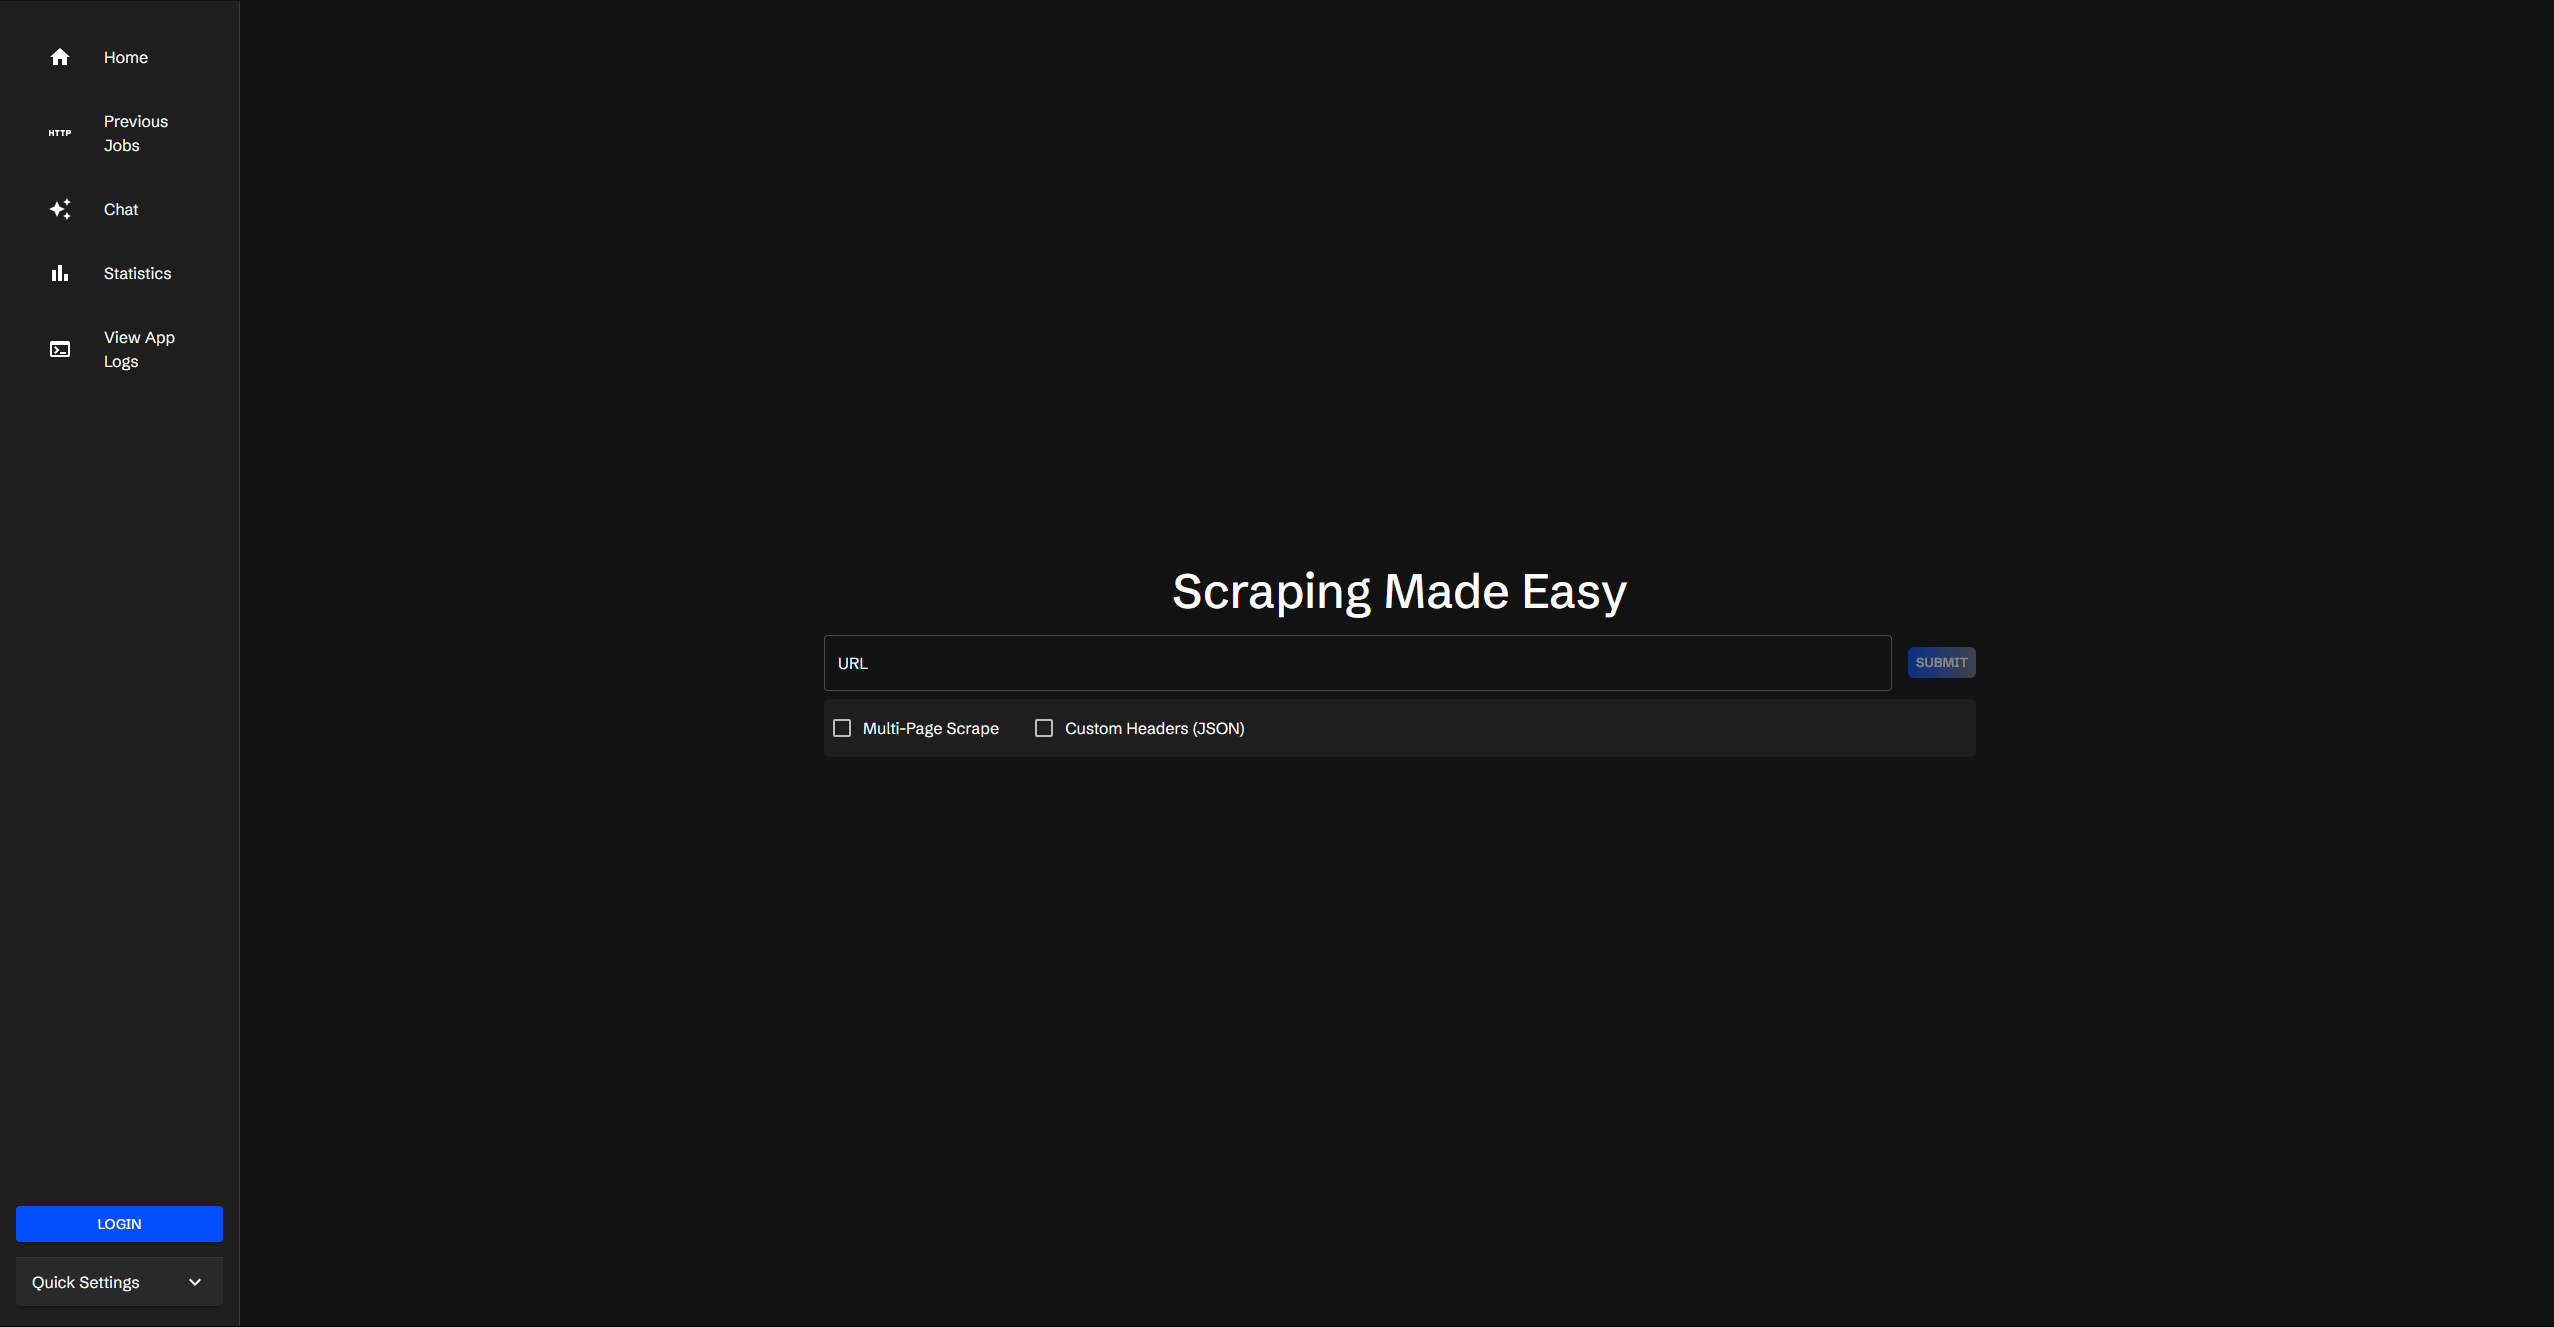
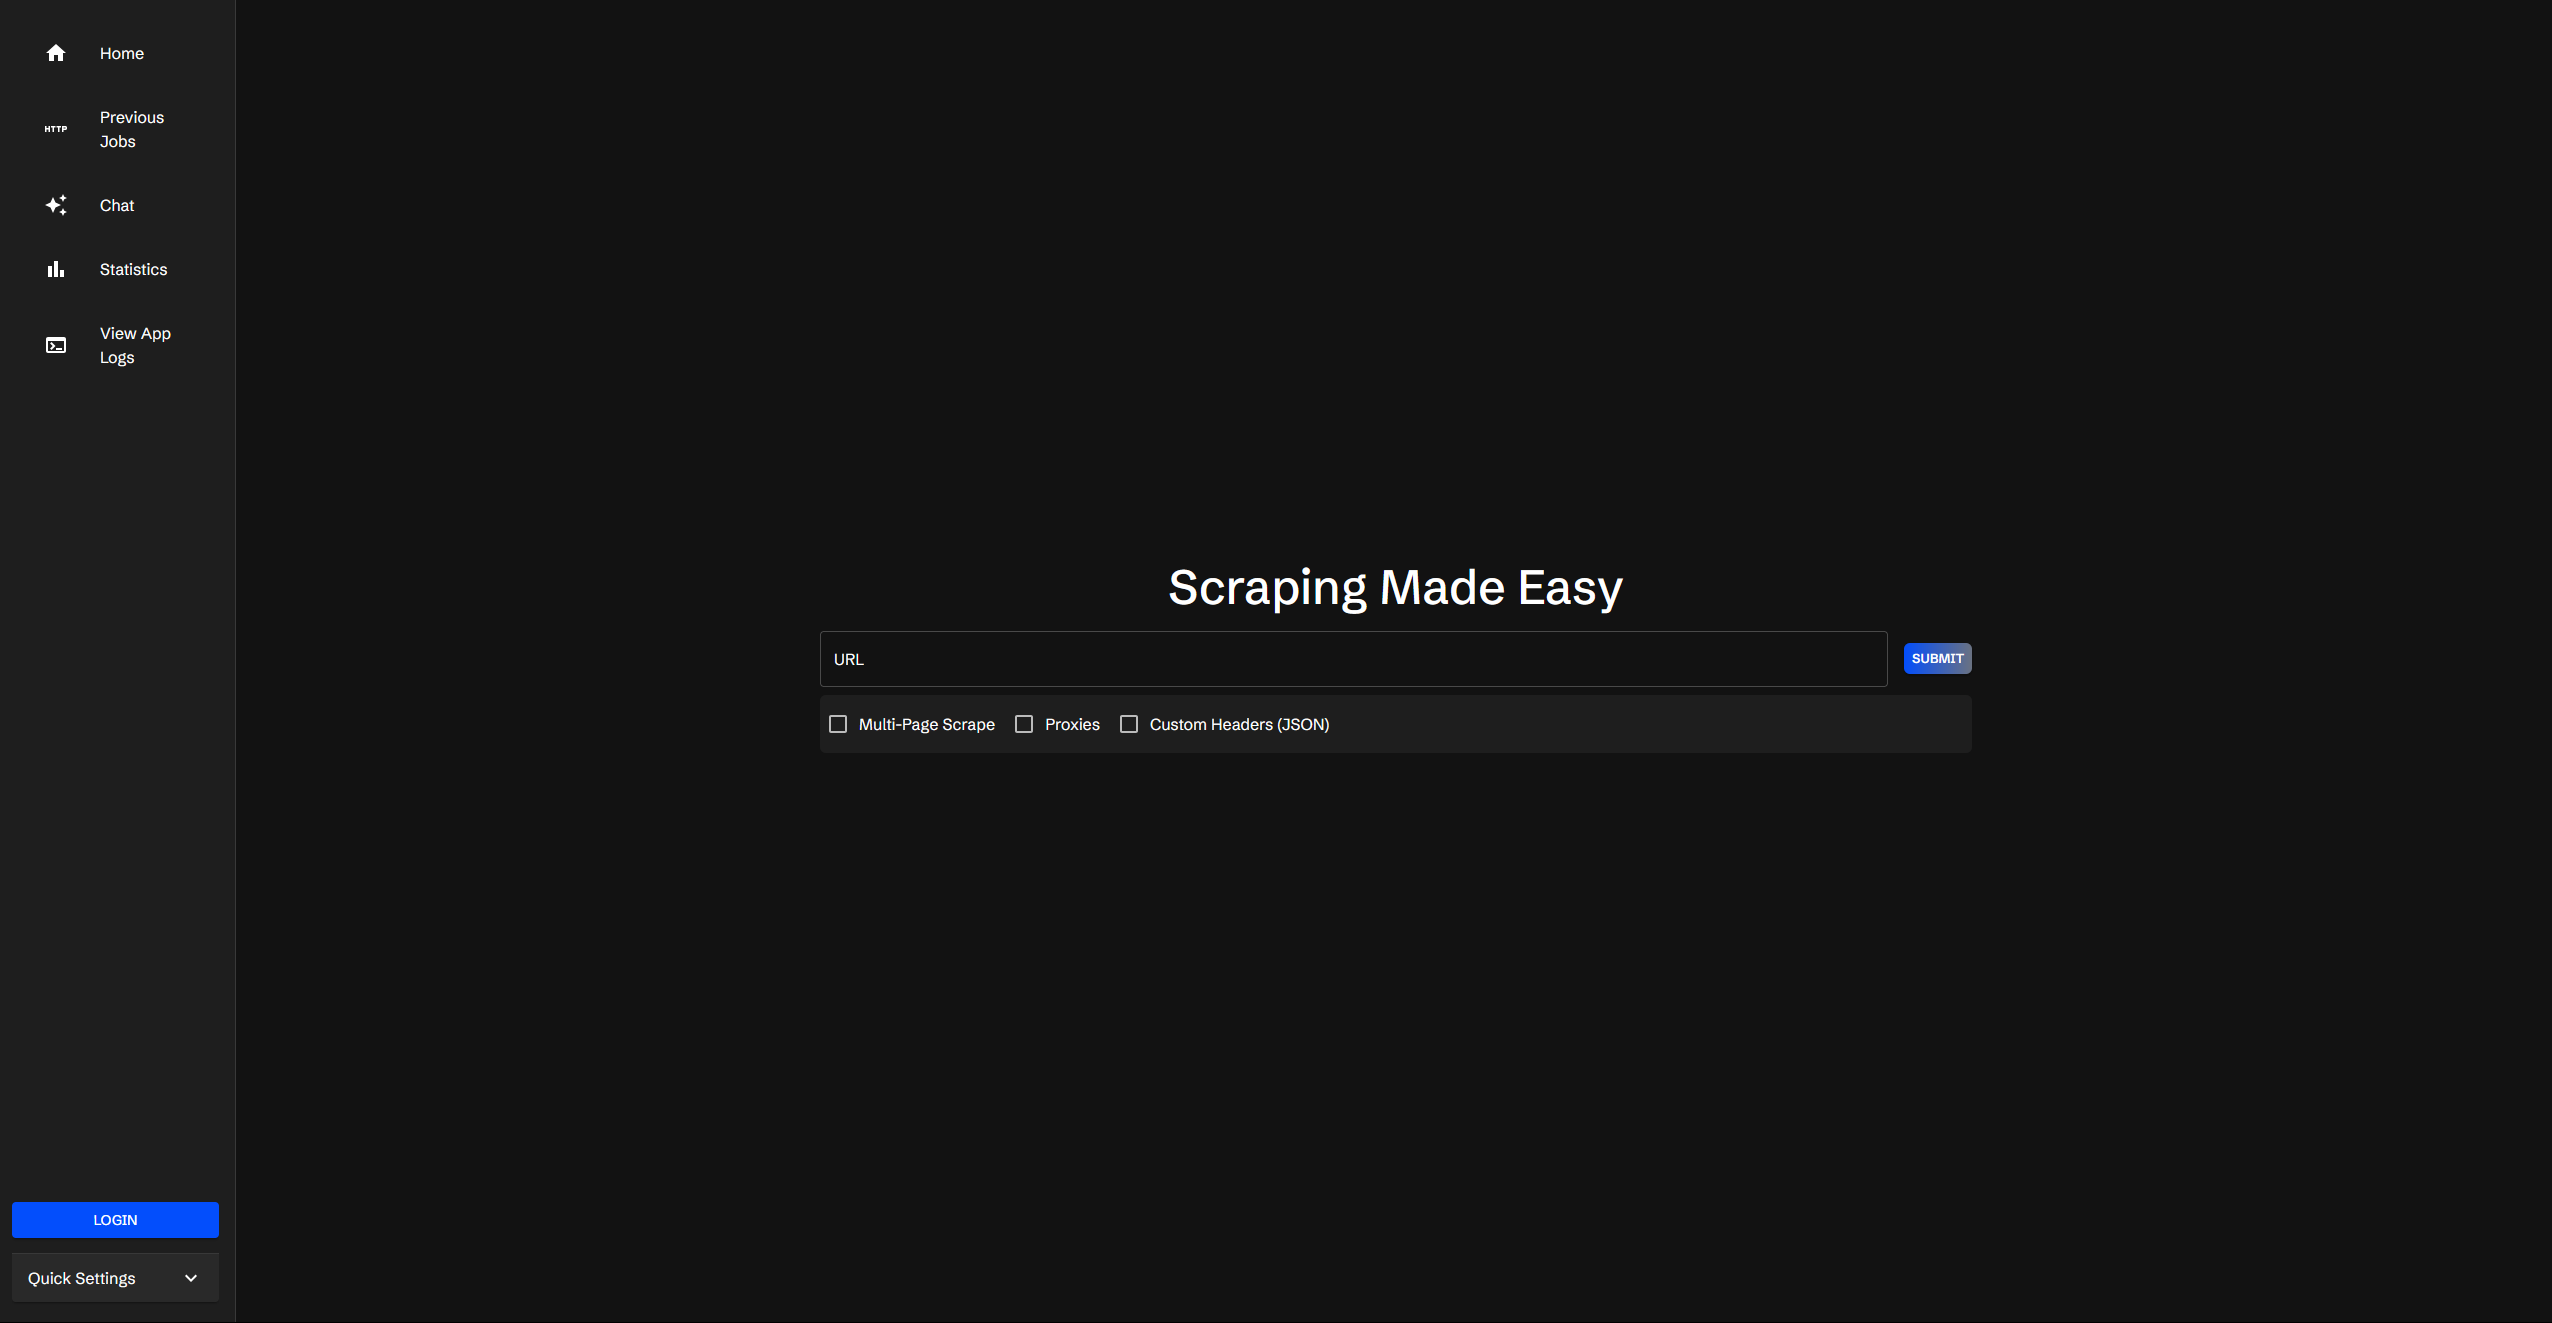
add proxy docs

diff --git a/src/content/docs/guides/quickstart.md b/src/content/docs/guides/quickstart.md
@@ -63,6 +63,14 @@ The first step to submitting a scraping job is to enter in the URL of the websit
 
 ![Scraping Job](../../../assets/images/scrape-job.png)
 
+## Optional Job Settings
+
+- **Multi Page Scrape**: If the website you are scraping has multiple pages of data, you can enable multi page scraping. This will automatically click through all links within the same domain until there are no more pages to scrape.
+
+- **Custom JSON Headers**: If you need to send custom headers with your request, you can do so by entering them in the `Headers` field.
+
+- **Proxies**: Enter in a comma separated list of proxies to use for the request.
+
 Upon hitting submit, your job will be added to the queue and you will be prompted to go to the table of jobs.
 
 ![Table of Jobs](../../../assets/images/jobs.png)
